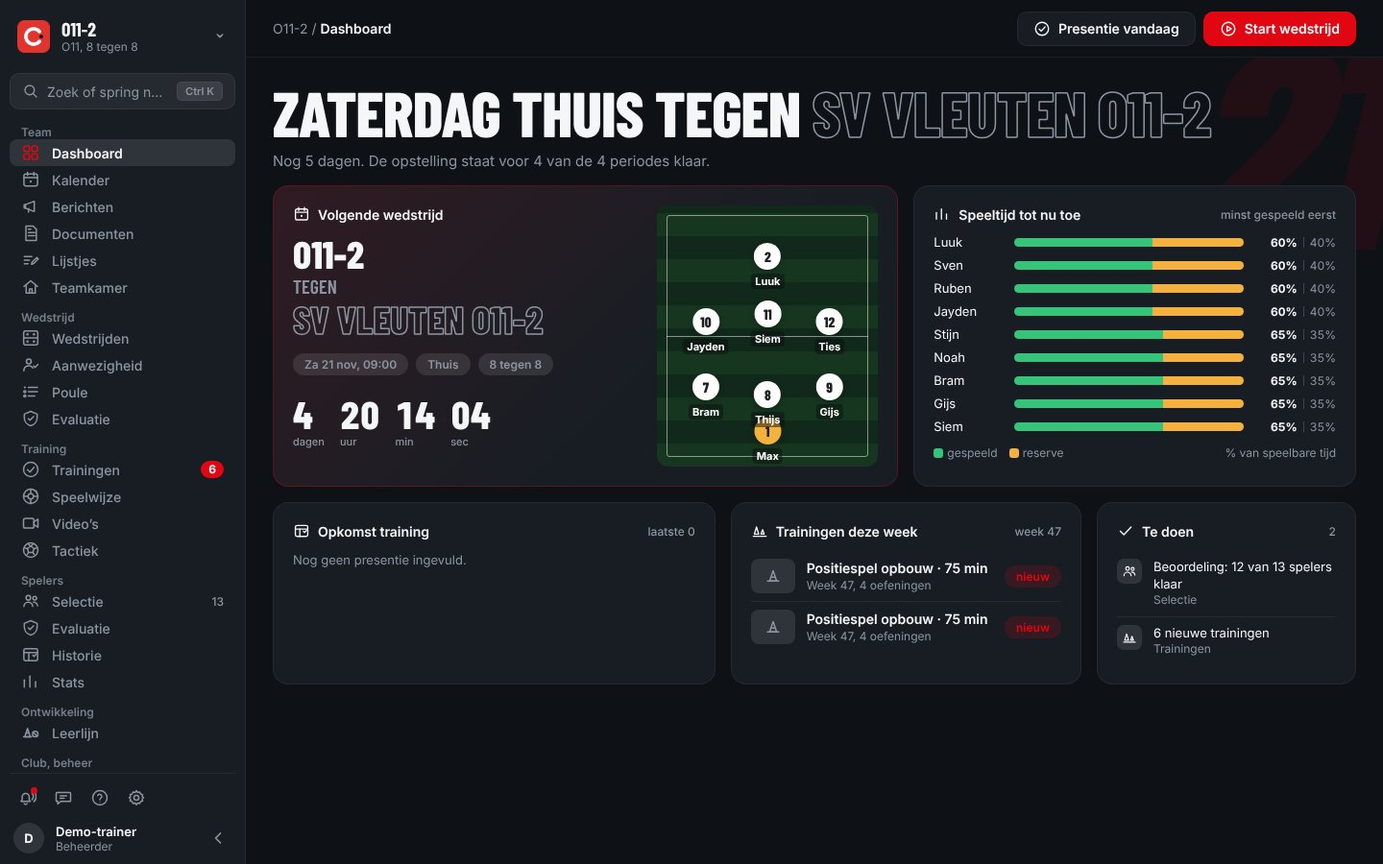
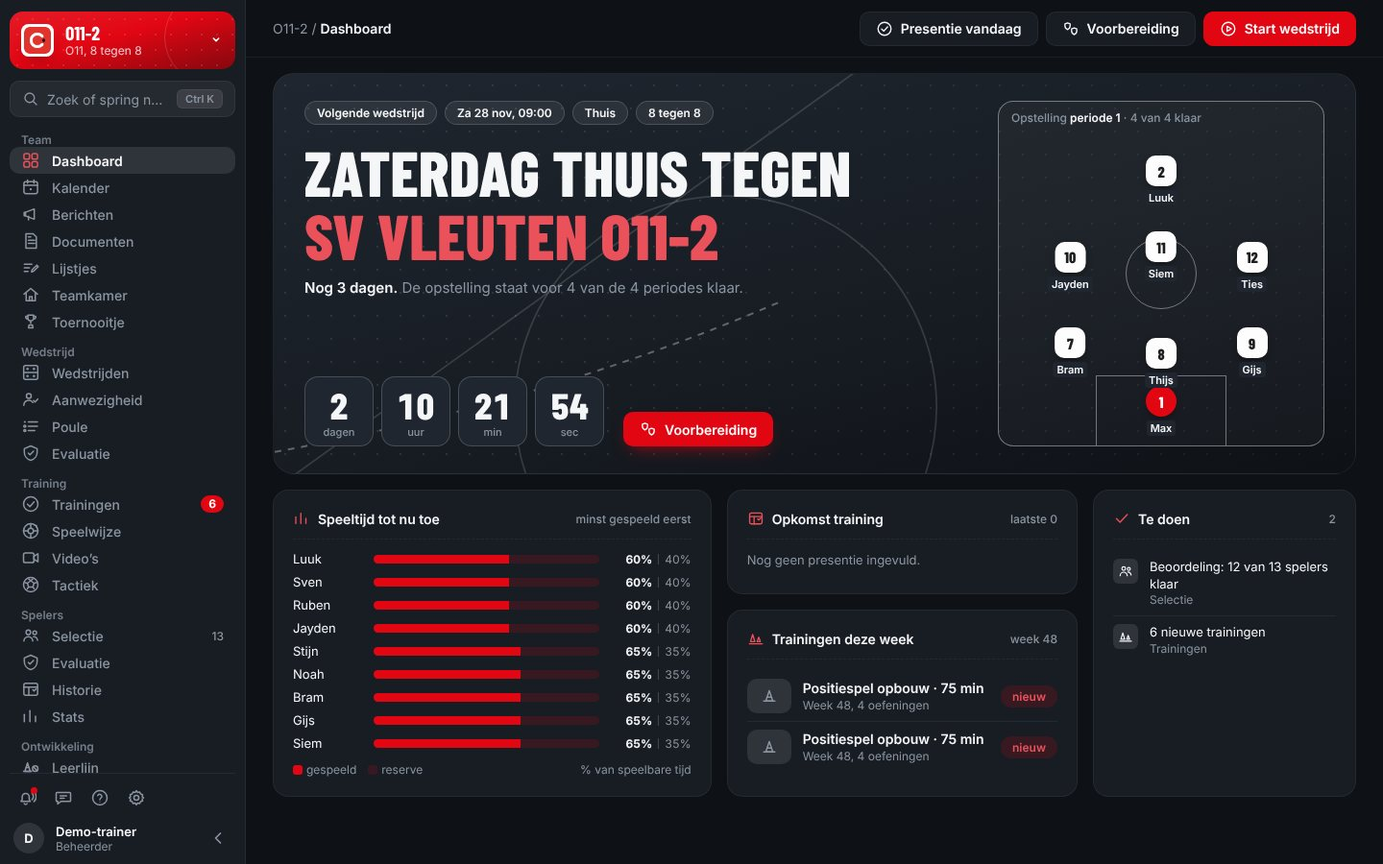
Over-pagina bijgewerkt: hockey, Activiteiten per rol, nieuw dashboard en tv-schermen (20261126o)
- Hockey open met eigen oefenstof (48 vormen), LISA als ledenbron; volleybal en korfbal als pilot
- Nieuw in Cluppie: hockey, tv-schermen als tactisch bord, nieuw laptopdashboard, uitlegvideo bovenaan
- Activiteiten: wie wat ziet (clubbeheer, comité, teams, ouders) en wat zonder account kan
- Correcties tegen de code: veldplanner alleen trainingen en nog concept, vrijwilligersbank met e-mail of telefoon, gedeelde training voor ouder of invaller, video's ook als upload
- Schermafbeelding trainersdashboard (licht en donker) opnieuw gemaakt uit de demo
- llms.txt in lijn gebracht; CACHE_VERSIE 20261126o

Claude-Session: https://claude.ai/code/session_018TW4pJewserW2hgFk6Gxhz

diff --git a/public/over.html b/public/over.html
@@ -5,7 +5,7 @@
 <meta name="viewport" content="width=device-width, initial-scale=1">
 <meta name="theme-color" content="#0e1116">
 <title>Cluppie: app voor jeugdvoetbaltrainers en jeugdopleidingen</title>
-<meta name="description" content="Cluppie is de app voor jeugdvoetbal bij amateurclubs: opstelling en eerlijke speeltijd, ruim 370 oefenvormen in 3D, evaluaties en een seizoensplan in de speelwijze van je club. Early adopters gebruiken Cluppie een half jaar gratis.">
+<meta name="description" content="Cluppie is de app voor jeugdvoetbal en jeugdhockey bij amateurclubs: opstelling en eerlijke speeltijd, oefenvormen in 3D, evaluaties, een seizoensplan in de speelwijze van je club en toernooien, kantine-tv en vrijwilligers. Early adopters een half jaar gratis.">
 <link rel="canonical" href="https://www.cluppie.io/over.html">
 <meta name="robots" content="index, follow, max-image-preview:large, max-snippet:-1">
 <link rel="icon" type="image/svg+xml" href="icons/icon.svg">
@@ -16,14 +16,14 @@
 <meta property="og:locale" content="nl_NL">
 <meta property="og:url" content="https://www.cluppie.io/over.html">
 <meta property="og:title" content="Cluppie: app voor jeugdvoetbaltrainers en jeugdopleidingen">
-<meta property="og:description" content="Cluppie is de app voor jeugdvoetbal bij amateurclubs: opstelling en eerlijke speeltijd, ruim 370 oefenvormen in 3D, evaluaties en een seizoensplan in de speelwijze van je club. Early adopters gebruiken Cluppie een half jaar gratis.">
+<meta property="og:description" content="Cluppie is de app voor jeugdvoetbal en jeugdhockey bij amateurclubs: opstelling en eerlijke speeltijd, oefenvormen in 3D, evaluaties, een seizoensplan in de speelwijze van je club en toernooien, kantine-tv en vrijwilligers. Early adopters een half jaar gratis.">
 <meta property="og:image" content="https://www.cluppie.io/over/og-cluppie.jpg">
 <meta property="og:image:width" content="1200">
 <meta property="og:image:height" content="630">
 <meta property="og:image:alt" content="Cluppie: de jeugdopleiding, digitaal op orde. Het trainersdashboard op de laptop.">
 <meta name="twitter:card" content="summary_large_image">
 <!-- Gestructureerde gegevens voor zoekmachines en AI-assistenten [vindbaarheid] -->
-<script type="application/ld+json">{"@context": "https://schema.org", "@graph": [{"@type": "Organization", "@id": "https://www.cluppie.io/#organisatie", "name": "Cluppie", "url": "https://www.cluppie.io/", "logo": "https://www.cluppie.io/icons/icon-512.png", "email": "paul@cluppie.io"}, {"@type": "WebSite", "@id": "https://www.cluppie.io/#website", "name": "Cluppie", "url": "https://www.cluppie.io/", "inLanguage": "nl-NL", "publisher": {"@id": "https://www.cluppie.io/#organisatie"}}, {"@type": "WebPage", "@id": "https://www.cluppie.io/over.html", "url": "https://www.cluppie.io/over.html", "name": "Cluppie: app voor jeugdvoetbaltrainers en jeugdopleidingen", "description": "Cluppie is de app voor jeugdvoetbal bij amateurclubs: opstelling en eerlijke speeltijd, ruim 370 oefenvormen in 3D, evaluaties en een seizoensplan in de speelwijze van je club. Early adopters gebruiken Cluppie een half jaar gratis.", "inLanguage": "nl-NL", "isPartOf": {"@id": "https://www.cluppie.io/#website"}, "about": {"@id": "https://www.cluppie.io/#app"}, "primaryImageOfPage": "https://www.cluppie.io/over/og-cluppie.jpg"}, {"@type": "SoftwareApplication", "@id": "https://www.cluppie.io/#app", "name": "Cluppie", "url": "https://www.cluppie.io/over.html", "description": "Cluppie is de app voor jeugdvoetbal bij amateurclubs: opstelling en eerlijke speeltijd, ruim 370 oefenvormen in 3D, evaluaties en een seizoensplan in de speelwijze van je club. Early adopters gebruiken Cluppie een half jaar gratis.", "applicationCategory": "SportsApplication", "operatingSystem": "Web (telefoon en laptop), installeerbaar als PWA op Android en iOS", "inLanguage": "nl-NL", "audience": {"@type": "Audience", "audienceType": "Jeugdvoetbaltrainers, jeugdcoördinatoren en technische commissies van amateurvoetbalclubs"}, "featureList": ["Opstelling per kwart of helft met wissels en eerlijke speeltijd", "Teamevaluatie na de wedstrijd met groeicurves", "Spelersbeoordeling op vijf ontwikkeldomeinen", "Training maken uit ruim 370 oefenvormen voor O6 tot en met O19, elk in 3D met het spelverloop in stappen", "Elke training aanpassen aan het aantal spelers en het weer", "Seizoensplan per bouw of voor de hele club", "Speelwijze van de club als rode draad door seizoensplan, training en wedstrijd", "Eigen coachmodel voor de trainer", "Teamkamer voor ouders en spelers met agenda en polls", "Teams en wedstrijden uit Sportlink", "Werkt offline langs de lijn"], "screenshot": ["https://www.cluppie.io/over/app/trainer-dashboard.jpg", "https://www.cluppie.io/over/app/telefoon-wedstrijd.jpg", "https://www.cluppie.io/over/app/telefoon-oefening.jpg"], "publisher": {"@id": "https://www.cluppie.io/#organisatie"}}]}</script>
+<script type="application/ld+json">{"@context": "https://schema.org", "@graph": [{"@type": "Organization", "@id": "https://www.cluppie.io/#organisatie", "name": "Cluppie", "url": "https://www.cluppie.io/", "logo": "https://www.cluppie.io/icons/icon-512.png", "email": "paul@cluppie.io"}, {"@type": "WebSite", "@id": "https://www.cluppie.io/#website", "name": "Cluppie", "url": "https://www.cluppie.io/", "inLanguage": "nl-NL", "publisher": {"@id": "https://www.cluppie.io/#organisatie"}}, {"@type": "WebPage", "@id": "https://www.cluppie.io/over.html", "url": "https://www.cluppie.io/over.html", "name": "Cluppie: app voor jeugdvoetbaltrainers en jeugdopleidingen", "description": "Cluppie is de app voor jeugdvoetbal en jeugdhockey bij amateurclubs: opstelling en eerlijke speeltijd, oefenvormen in 3D, evaluaties, een seizoensplan in de speelwijze van je club en toernooien, kantine-tv en vrijwilligers. Early adopters een half jaar gratis.", "inLanguage": "nl-NL", "isPartOf": {"@id": "https://www.cluppie.io/#website"}, "about": {"@id": "https://www.cluppie.io/#app"}, "primaryImageOfPage": "https://www.cluppie.io/over/og-cluppie.jpg"}, {"@type": "SoftwareApplication", "@id": "https://www.cluppie.io/#app", "name": "Cluppie", "url": "https://www.cluppie.io/over.html", "description": "Cluppie is de app voor jeugdvoetbal en jeugdhockey bij amateurclubs: opstelling en eerlijke speeltijd, oefenvormen in 3D, evaluaties, een seizoensplan in de speelwijze van je club en toernooien, kantine-tv en vrijwilligers. Early adopters een half jaar gratis.", "applicationCategory": "SportsApplication", "operatingSystem": "Web (telefoon en laptop), installeerbaar als PWA op Android en iOS", "inLanguage": "nl-NL", "audience": {"@type": "Audience", "audienceType": "Jeugdtrainers, jeugdcoördinatoren, technische commissies en besturen van amateurvoetbal- en hockeyclubs"}, "featureList": ["Opstelling per kwart of helft met wissels en eerlijke speeltijd", "Teamevaluatie na de wedstrijd met groeicurves", "Spelersbeoordeling op vijf ontwikkeldomeinen", "Training maken uit ruim 370 voetbalvormen en 48 hockeyvormen, elk in 3D met het spelverloop in stappen", "Elke training aanpassen aan het aantal spelers en het weer", "Seizoensplan per bouw of voor de hele club", "Speelwijze van de club als rode draad door seizoensplan, training en wedstrijd", "Eigen coachmodel voor de trainer", "Teamkamer voor ouders en spelers met agenda en polls", "Teams en wedstrijden uit Sportlink", "Toernooiplanner met online inschrijven en een live pagina voor telefoon en tv", "Kantine-tv met het programma van vandaag en sponsoren", "Vrijwilligersbank en vrijwilligersdiensten bij clubactiviteiten", "Werkt offline langs de lijn"], "screenshot": ["https://www.cluppie.io/over/app/trainer-dashboard.jpg", "https://www.cluppie.io/over/app/telefoon-wedstrijd.jpg", "https://www.cluppie.io/over/app/telefoon-oefening.jpg"], "publisher": {"@id": "https://www.cluppie.io/#organisatie"}}]}</script>
 <link rel="preload" href="fonts/barlow-condensed-latin-800-normal.woff2" as="font" type="font/woff2" crossorigin>
 <link rel="preload" href="fonts/inter-latin-400-normal.woff2" as="font" type="font/woff2" crossorigin>
 <link rel="stylesheet" href="fonts/fonts.css">
@@ -58,7 +58,7 @@
         <a href="index.html?aanmelden" class="btn btn--vol cta-login">Meld je club aan</a>
         <a href="index.html" class="btn btn--stil cta-login">Probeer het met je eigen team</a>
       </div>
-      <p class="hero__noot">De app voor jeugdvoetbal: voor trainers, coördinatoren en de technische commissie. Op maat van jouw club, met jullie eigen trainingen. Heb je al een uitnodiging? <a href="index.html" class="cta-login">Inloggen</a>.</p>
+      <p class="hero__noot">De app voor jeugdvoetbal en jeugdhockey: voor trainers, coördinatoren, de technische commissie en het bestuur. Op maat van jouw club, met jullie eigen trainingen. Heb je al een uitnodiging? <a href="index.html" class="cta-login">Inloggen</a>.</p>
     </div>
 
     <figure class="veldkaart" data-slot="hero" data-kind="product" data-alt="Een oefenvorm zoals Cluppie hem tekent, in de app op een telefoon langs het veld">
@@ -100,7 +100,7 @@
         <span class="sport__status">Pilot: meld je club aan</span>
       </a>
     </div>
-    <p class="sporten__noot">Opstelling, speeltijd, teamkamer en rollen werken bij elke sport meteen. De oefenstof en de plannen voor hockey, volleybal en korfbal bouwen we samen met de eerste clubs.</p>
+    <p class="sporten__noot">Opstelling, speeltijd, teamkamer en rollen werken bij elke sport meteen. Hockey heeft eigen oefenstof: 48 vormen in 3D, met leerblokken en een seizoensplan per bouw. Een hockeyclub zet haar teams erin met een lijst uit LISA. De oefenstof en de plannen voor volleybal en korfbal bouwen we samen met de eerste clubs.</p>
     <script>
       /* [20261126f] gekozen open sport gaat mee naar de start van trainer en club (?sport=) */
       document.querySelectorAll('.sport--open[data-sport]').forEach(function (t) {
@@ -141,7 +141,7 @@
         <ul class="kies__lijst">
           <li>De speelwijze van de club komt terug in elke training.</li>
           <li>Kennis over een team blijft als een trainer stopt.</li>
-          <li>Teams en wedstrijden komen rechtstreeks uit Sportlink.</li>
+          <li>Teams en wedstrijden rechtstreeks uit Sportlink, of bij hockey uit een lijst van LISA.</li>
           <li>Rollen voor coach, coördinator en hoofd jeugdopleiding.</li>
         </ul>
         <div class="acties"><a href="index.html?aanmelden" class="btn btn--vol cta-login">Meld je club aan</a><a href="#eerlijk" class="btn btn--stil">Privacy en afspraken</a></div>
@@ -177,13 +177,13 @@
       <article class="ingang reveal">
         <p class="ingang__wie">Met een account en een rol</p>
         <h3>Clubbeheer</h3>
-        <p>Voor coördinatoren, het hoofd jeugdopleiding en het bestuur: teams uit Sportlink, het plan per bouw, de week van elk team, de veldplanner en Activiteiten.</p>
-        <p class="ingang__hoe">De club meldt zich aan en deelt daarna zelf de rollen uit.</p>
+        <p>Voor coördinatoren, het hoofd jeugdopleiding en het bestuur: teams uit Sportlink of LISA, het plan per bouw, de week van elk team, video's, de veldplanner en Activiteiten. Een comité ziet alleen de eigen activiteiten.</p>
+        <p class="ingang__hoe">De club meldt zich aan en deelt daarna zelf de rollen uit. De veldplanner en Activiteiten zetten we per club aan.</p>
       </article>
       <article class="ingang reveal">
         <p class="ingang__wie">Met een code van de trainer</p>
         <h3>De Teamkamer voor ouders en spelers</h3>
-        <p>Agenda, wie erbij is, mededelingen, polls en thuis oefenen. Geen chat en geen beoordelingen.</p>
+        <p>Agenda, wie erbij is, mededelingen, polls, thuis oefenen en de activiteiten van de club. Geen chat en geen beoordelingen.</p>
         <p class="ingang__hoe">De trainer keurt elke ouder goed. De club zet de Teamkamer zelf aan.</p>
       </article>
       <article class="ingang ingang--breed reveal">
@@ -194,12 +194,12 @@
           <div><dt>Toernooi op tv</dt><dd>Dezelfde pagina voor het grote scherm, met het clublogo en de sponsoren.</dd></div>
           <div><dt>Inschrijven voor een toernooi</dt><dd>Een gastclub, school of bedrijf schrijft een team in en ziet of het is toegelaten.</dd></div>
           <div><dt>Kantine-tv</dt><dd>De wedstrijden van vandaag met veld, kleedkamer en uitslag, afgewisseld met sponsoren.</dd></div>
-          <div><dt>Vrijwilligersbank</dt><dd>Alle taken waar de club mensen voor zoekt, met per taak wat je precies doet. Aanmelden met naam en telefoonnummer.</dd></div>
+          <div><dt>Vrijwilligersbank</dt><dd>Alle taken waar de club mensen voor zoekt, met per taak wat je precies doet. Aanmelden met je naam en een e-mailadres of telefoonnummer.</dd></div>
           <div><dt>Diensten bij een activiteit</dt><dd>Bardienst of opbouwen bij het toernooi: kies een tijdvak en zet je naam erbij.</dd></div>
           <div><dt>Trainingshulp</dt><dd>Ouders schrijven zich in als helper bij een training, via een link in de groepsapp.</dd></div>
-          <div><dt>Een training delen</dt><dd>De trainer stuurt een training door aan een collega of invaller, die hem zonder inloggen bekijkt.</dd></div>
+          <div><dt>Een training delen</dt><dd>De trainer stuurt een training naar een ouder die meehelpt of een invaller. Die bekijkt hem zonder inloggen, met wie er is. De link verloopt vanzelf.</dd></div>
         </dl>
-        <p class="ingang__hoe">Op deze pagina's staan nooit beoordelingen of gegevens van spelers. De club zet elke pagina zelf open en weer dicht.</p>
+        <p class="ingang__hoe">Op deze pagina's staan nooit beoordelingen, leerpunten of contactgegevens van spelers. De club of de trainer zet elke pagina zelf open en weer dicht.</p>
       </article>
     </div>
   </div>
@@ -248,7 +248,7 @@
         <h2>Van evaluatie naar een training die past</h2>
         <p class="lead">Cluppie denkt mee over de training van vanavond, niet alleen over wat er vorige week gebeurde.</p>
       </div>
-      <p class="cijfer"><span class="cijfer__getal">ruim 370</span> <span class="cijfer__wat">eigen oefenvormen voor O6 tot en met O19. Elke vorm speelt stap voor stap af in 3D, met coachmomenten, een makkelijkere en een moeilijkere versie.</span></p>
+      <p class="cijfer"><span class="cijfer__getal">ruim 370</span> <span class="cijfer__wat">eigen voetbalvormen voor O6 tot en met O19, en 48 voor hockey. Elke vorm speelt stap voor stap af in 3D, met coachmomenten, een makkelijkere en een moeilijkere versie.</span></p>
     </div>
 
     <div class="wissel" data-wissel>
@@ -300,14 +300,18 @@
     <h2 id="nieuw-kop">Nieuw in Cluppie</h2>
   </div>
   <ul class="rail" tabindex="0" aria-label="Nieuw in Cluppie, schuif opzij voor meer">
+    <li><h3>Hockey voor iedereen</h3><p>Hockeytrainers en hockeyclubs beginnen zelf, met de spelvormen, kaarten en woorden van de KNHB. Met 48 eigen hockeyvormen in 3D, leerblokken en een seizoensplan per bouw. Volleybal en korfbal starten als pilot.</p></li>
+    <li><h3>Tv-schermen als tactisch bord</h3><p>De kantine-tv en de toernooi-tv in de clubkleur, met veldlijnen en een bal die over het bord loopt. Alleen wat verandert schuift in beeld en een nieuwe stand licht even op.</p></li>
+    <li><h3>Een nieuw dashboard op de laptop</h3><p>De volgende wedstrijd op een bord in de clubkleur: aftellen, de opstelling op een getekend veld en de knop Voorbereiding. Daaronder de speeltijd, de opkomst en wat er nog te doen is.</p></li>
+    <li><h3>Uitlegvideo bovenaan</h3><p>De club zet een video bovenaan het startscherm van de teams, tot de coach hem heeft geopend. Bij Video's zie je per video welke trainers hem bekeken.</p></li>
     <li><h3>Online inschrijven voor je toernooi</h3><p>Zet de inschrijving open en deel de link. Gastclubs kiezen een categorie en zien of ze zijn toegelaten. Jij ziet wie betaald heeft en laat een team met één tik toe.</p></li>
-    <li><h3>Kantine-tv</h3><p>De wedstrijden van vandaag op de tv in de kantine, met veld, kleedkamer en uitslag. De pagina werkt zichzelf bij, met het logo en de kleur van de club.</p></li>
+    <li><h3>Kantine-tv</h3><p>De wedstrijden van vandaag op de tv in de kantine, met veld, kleedkamer en uitslag. De pagina werkt zichzelf bij, met het logo en de kleur van de club, sponsoren en eigen schermen.</p></li>
     <li><h3>Sponsoren per seizoen</h3><p>Per sponsor het pakket, het bedrag en tot wanneer de afspraak loopt. Ze draaien mee op de kantine-tv en bij je toernooi, en verdwijnen vanzelf na de einddatum.</p></li>
     <li><h3>Vrijwilligersbank</h3><p>De club geeft aan waar ze mensen voor zoekt. Bij elke taak staat wat je precies doet, wanneer, hoe lang en bij wie je terecht kunt. Aanmelden kan zonder account.</p></li>
     <li><h3>School- en bedrijventoernooien</h3><p>Dezelfde toernooiplanner, met klassen of bedrijven in plaats van verenigingen. Met een kant-en-klaar draaiboek erbij.</p></li>
     <li><h3>Toernooiplanner met live pagina</h3><p>Poules, speelschema over meerdere velden, kleedkamers en finales. Uitslagen invoeren op je telefoon; bezoekers volgen het live, ook op tv.</p></li>
     <li><h3>Activiteiten met een draaiboek</h3><p>Een toernooi, kamp of clubdag organiseren: de taken planen terug vanaf de datum, vrijwilligers kiezen zelf een dienst en op de dag zelf loopt het programma live mee.</p></li>
-    <li><h3>Veldplanner</h3><p>Trainingen en wedstrijden verdelen over velden en kleedkamers, door te slepen. Dubbele boekingen zie je meteen.</p></li>
+    <li><h3>Veldplanner</h3><p>De trainingen van alle teams verdelen over velden, tijden en kleedkamers, door te slepen. Botsingen, een veld zonder licht of een dubbele kleedkamer zie je meteen. Voor nu een concept voor het clubbeheer.</p></li>
     <li><h3>Training als tijdlijn</h3><p>Per onderdeel de tijd, de groepen, de veldmaat en hoe zwaar het is. Met Uitzetten zie je alle vakken in één plaatje op het veld, met Start training wat nu aan de beurt is.</p></li>
     <li><h3>Zie waar je speelt</h3><p>Tik bij een wedstrijd op het veld en je ziet een luchtfoto van het sportpark, met jullie veld en de kleedkamer gemarkeerd. De club tekent het sportpark één keer in.</p></li>
     <li><h3>Evalueren: het doel eerst</h3><p>Na de wedstrijd kijk je eerst of het wedstrijddoel terugkwam. Daarna kies je per onderdeel de zin die past bij wat je zag. De Blokspiegel volgt per week hoe het blokdoel erin komt.</p></li>
@@ -316,7 +320,7 @@
     <li><h3>Wie doet wat in de club</h3><p>Onder Mensen staat per rol wie hem heeft, wat die rol ziet en doet en of hij nog open is.</p></li>
     <li><h3>Bewaartermijnen</h3><p>De club kiest hoe lang gegevens van vertrokken spelers en oude seizoenen blijven staan. Cluppie wist nooit iets vanzelf.</p></li>
     <li><h3>De speelwijze als rode draad</h3><p>Hoe jullie willen voetballen, in de vier momenten van het spel. Het principe van de week staat in het seizoensplan, boven de training en in de vraag na de wedstrijd. Je antwoord stuurt het plan bij.</p></li>
-    <li><h3>Elke oefening in 3D</h3><p>Alle oefeningen, ruim 370, spelen stap voor stap af op een veld in 3D. Je ziet ook wat de tegenstander doet, hoe de aanval eindigt en wat er daarna gebeurt.</p></li>
+    <li><h3>Elke oefening in 3D</h3><p>Alle oefeningen, ruim 370 voor voetbal en 48 voor hockey, spelen stap voor stap af op een veld in 3D. Je ziet ook wat de tegenstander doet, hoe de aanval eindigt en wat er daarna gebeurt.</p></li>
     <li><h3>Vandaag: twee spelers minder, of regen</h3><p>Kies boven de training hoeveel spelers er zijn en wat voor weer het is. Groepen, veldmaat, materiaal en tijden schuiven mee. Het plan zelf blijft staan, en met één tik ben je terug.</p></li>
     <li><h3>Houvast langs de lijn</h3><p>Bij elke oefening staat hoe je ziet dat het lukt, wat je verandert als het niet loopt, één ding om te tellen en een manier om de spelers zelf te laten kiezen.</p></li>
     <li><h3>Teamkamer voor ouders en spelers</h3><p>Ouders en spelers zien de agenda, wie erbij is en je mededelingen. Geen beoordelingen, geen chat. De trainer keurt elke ouder goed. Staat standaard uit: we zetten hem per club aan.</p></li>
@@ -568,9 +572,9 @@
           <div><dt>Trainer</dt><dd>Het dagelijkse gereedschap: opstelling, wissels, evaluatie en trainingen.</dd></div>
           <div><dt>Coördinator</dt><dd>Overzicht over meerdere teams: waar is aandacht of ondersteuning nodig.</dd></div>
           <div><dt>TC en bestuur</dt><dd>Zicht op hoe de opleidingslijn in de praktijk landt, seizoen na seizoen.</dd></div>
-          <div><dt>Commissies en vrijwilligers</dt><dd>Een toernooi of clubdag organiseren met een draaiboek, de kantine-tv vullen en vrijwilligers vinden met een duidelijke taak.</dd></div>
+          <div><dt>Comités en vrijwilligers</dt><dd>Een toernooi of clubdag organiseren met een draaiboek, de kantine-tv vullen en vrijwilligers vinden met een duidelijke taak. Een comitélid ziet alleen de activiteiten waar het bij hoort.</dd></div>
           <div><dt>Bezoekers, gastclubs en scholen</dt><dd>Zonder account: een team inschrijven, het toernooi live volgen of je aanmelden als vrijwilliger.</dd></div>
-          <div><dt>Spelers en ouders</dt><dd>Eerlijkere speeltijd en trainingen die passen. In de Teamkamer zien ze de agenda, wie erbij is en de polls, als de club dat aanzet.</dd></div>
+          <div><dt>Spelers en ouders</dt><dd>Eerlijkere speeltijd en trainingen die passen. In de Teamkamer zien ze de agenda, wie erbij is, de polls en de activiteiten van de club, als de club dat aanzet.</dd></div>
         </dl>
       </div>
 
@@ -579,14 +583,14 @@
           <li>Opstelling maken door spelers te slepen of te tikken, per kwart of helft</li>
           <li>Wissels automatisch gelogd met tijdstip zodra de klok loopt</li>
           <li>Speeltijd-stippen per periode, zodat direct zichtbaar is wie aan de beurt is</li>
-          <li>Klok en aantal periodes automatisch ingesteld op de KNVB-categorie</li>
+          <li>Klok en aantal periodes automatisch ingesteld op de categorie van je bond (KNVB of KNHB)</li>
           <li>Doelpunten en kaarten registreren, corrigeren en terugzien in het log</li>
           <li>Aanvoerder aanwijzen per wedstrijd, met overzicht van rotatie</li>
           <li>Toernooimodus met doorlopende wissels en speeltijd over meerdere wedstrijden</li>
           <li>Vorige confrontatie: uitslag en notities tegen dezelfde tegenstander direct terugzien</li>
           <li>Wedstrijdvoorbereiding: de tegenstander uit Sportlink, het weer, de route en het veld op een luchtfoto</li>
           <li>Toernooitje: onderling toernooi met eigen spelers en gastspelers, één klok voor alle veldjes</li>
-          <li>Format en formatie aanpassen (4×4 t/m 11×11) via “Wijzig opzet”</li>
+          <li>Format en formatie aanpassen via “Wijzig opzet”, van 3 tegen 3 bij hockey tot 11 tegen 11</li>
         </ul>
       </div>
 
@@ -605,7 +609,7 @@
 
       <div class="paneel" role="tabpanel" id="ap5" aria-labelledby="at5" hidden>
         <ul class="lijst">
-          <li>Training maken uit een bibliotheek van ruim 370 vormen, elk in 3D met het spelverloop in stappen</li>
+          <li>Training maken uit een bibliotheek van ruim 370 voetbalvormen of 48 hockeyvormen, elk in 3D met het spelverloop in stappen</li>
           <li>Per oefening zeven vaste velden: doel, tijd, benodigdheden, uitleg, differentiatie, coachmomenten en spelvormen</li>
           <li>Vandaag: elke training aanpassen aan het aantal spelers en het weer, met één tik terug naar het plan</li>
           <li>Training maken houdt rekening met je materiaal, een half veld en het weer</li>
@@ -615,7 +619,7 @@
           <li>Training als tijdlijn, met Uitzetten (alle vakken op het veld) en Start training</li>
           <li>Je eigen coachmodel opbouwen, alleen voor jou zichtbaar</li>
           <li>Trainingen delen als PDF per team, met melding bij iets nieuws</li>
-          <li>Video’s delen via YouTube-links, per team en in eigen categorieën van de club</li>
+          <li>Video’s delen als YouTube-link of eigen upload, per team en in eigen categorieën van de club</li>
           <li>Seizoenskalender per maand, met filters op wedstrijden, speeldagen en beker</li>
           <li>Automatische synchronisatie van officiële wedstrijden vanuit de KNVB-kalender</li>
           <li>Zelf toernooien, vriendschappelijke wedstrijden of vrije dagen toevoegen</li>
@@ -625,7 +629,7 @@
       <div class="paneel" role="tabpanel" id="ap6" aria-labelledby="at6" hidden>
         <ul class="lijst">
           <li>PDF-import van teamindelingen: teams en spelers automatisch uitgelezen</li>
-          <li>Alle teams in een keer klaarzetten uit Sportlink, in de juiste bouw</li>
+          <li>Alle teams in een keer klaarzetten uit Sportlink, in de juiste bouw; zonder Sportlink (hockey) plak je de teams uit LISA</li>
           <li>Coaches uitnodigen en beheren per team, met persoonlijke links</li>
           <li>Werkwijze kiezen: de club stuurt de trainingen, of trainers maken ze zelf</li>
           <li>Coördinatoren zien per week wat elk team traint en of er getraind is</li>
@@ -637,21 +641,24 @@
           <li>Seizoensbeheer en club-breed afgelasten van speeldagen</li>
           <li>Mensen: per rol wie hem heeft, wat die rol ziet en doet en of hij nog open is</li>
           <li>Sportparken intekenen, zodat elke coach ziet op welk veld hij speelt</li>
-          <li>Veldplanner: trainingen en wedstrijden over velden en kleedkamers verdelen door te slepen</li>
+          <li>Veldplanner: de trainingen over velden, tijden en kleedkamers verdelen door te slepen, met controles op botsingen (nog als concept, per club aan te zetten)</li>
+          <li>Een uitlegvideo bovenaan het startscherm van de teams zetten en per video zien welke trainers hem openden</li>
           <li>Bewaartermijnen: zelf kiezen hoe lang gegevens blijven staan, en opruimen met één controle vooraf</li>
         </ul>
       </div>
 
       <div class="paneel" role="tabpanel" id="ap11" aria-labelledby="at11" hidden>
-        <p class="paneel__intro">Activiteiten staat standaard uit. We zetten het per club aan. Alles hieronder werkt voor bezoekers zonder account, met een link of QR-code.</p>
+        <p class="paneel__intro">Activiteiten staat standaard uit. We zetten het per club aan. Het clubbeheer en het comité werken in de app. Inschrijven, live meekijken, de tv en je aanmelden als vrijwilliger gaan zonder account, met een link of QR-code.</p>
         <ul class="lijst">
           <li>Draaiboeken voor toernooi, schooltoernooi, bedrijventoernooi, kamp en clubdag: de taken planen terug vanaf de datum</li>
           <li>Comité met eigen taken, een dagprogramma dat live meeloopt en een plan B bij slecht weer</li>
+          <li>De clubbeheerder kiest het comité; een comitélid ziet en bewerkt alleen de eigen activiteiten. Ook iemand zonder account kan in het comité, met een takenlijst via WhatsApp</li>
+          <li>Deelnemende teams zien de activiteit in hun planning, ouders in de agenda van de Teamkamer als het comité dat aanzet</li>
           <li>Vrijwilligersdiensten bij een activiteit: mensen kiezen zelf een tijdvak via een open link</li>
           <li>Toernooiplanner: poules, speelschema over meerdere velden, kleedkamers, finales en de eindstand</li>
           <li>Online inschrijven per categorie, met een maximum, wachtlijst, inschrijfgeld en een betaallink van de club</li>
           <li>Verenigingen, scholen of bedrijven als deelnemer, met de lijst als CSV in en uit</li>
-          <li>Live pagina voor telefoon en tv: schema, standen, uitslagen en mededelingen, met het clublogo</li>
+          <li>Live pagina voor telefoon en tv: schema, standen, uitslagen en mededelingen, met het clublogo. Op tv als tactisch bord in de clubkleur</li>
           <li>Sponsoren en eigen schermen bij het toernooi, over te nemen uit de sponsoren van de club</li>
           <li>Kantine-tv: de wedstrijden van vandaag met veld, kleedkamer en uitslag, elke tien minuten bijgewerkt</li>
           <li>Sponsoren per seizoen: pakket, bedrag en einddatum voor het bestuur, het logo op de tv</li>
@@ -673,6 +680,7 @@
           <li>Geen chat, geen beoordelingen, geen leerpunten en geen reden van een afmelding</li>
           <li>Wedstrijden en trainingen in de eigen agenda, en de stand tijdens de wedstrijd als de trainer dat aanzet</li>
           <li>Trainingshulp: ouders schrijven zich in als helper bij een training</li>
+          <li>Activiteiten van de club in de agenda, als het comité dat aanzet</li>
         </ul>
       </div>
 
@@ -719,7 +727,7 @@
       <dl class="rijen">
         <div><dt>Geen betalingen</dt><dd>Contributie, boetes en de teampot regel je ergens anders. Bij een toernooi zet de club zelf een betaallink of rekeningnummer bij de inschrijving en vinkt af wie betaald heeft.</dd></div>
         <div><dt>Geen chat met ouders</dt><dd>Ouders en spelers kunnen meekijken in de Teamkamer: agenda, wie erbij is en polls. Praten en afmelden blijft in de groepsapp.</dd></div>
-        <div><dt>Geen ledenadministratie</dt><dd>Die blijft in Sportlink. Cluppie haalt daar teams en wedstrijden uit.</dd></div>
+        <div><dt>Geen ledenadministratie</dt><dd>Die blijft in Sportlink of LISA. Uit Sportlink haalt Cluppie teams en wedstrijden; uit LISA plak je de teams erin.</dd></div>
       </dl>
     </div>
     <div class="reveal">
@@ -727,7 +735,7 @@
       <p class="lead">Het gaat om gegevens van kinderen. Zo is dat geregeld.</p>
       <dl class="rijen">
         <div><dt>In de EU</dt><dd>De gegevens van je club staan in Europa en zijn afgeschermd van andere clubs.</dd></div>
-        <div><dt>Wie wat ziet</dt><dd>Een coach ziet zijn eigen team. Coördinatoren en het hoofd jeugdopleiding zien wat bij hun rol hoort. Ouders zien alleen de Teamkamer, na goedkeuring door de trainer.</dd></div>
+        <div><dt>Wie wat ziet</dt><dd>Een coach ziet zijn eigen team. Coördinatoren en het hoofd jeugdopleiding zien wat bij hun rol hoort. Een comitélid ziet alleen de eigen activiteiten. Ouders zien alleen de Teamkamer, na goedkeuring door de trainer.</dd></div>
         <div><dt>Afspraken op papier</dt><dd>Je sluit als club een verwerkersovereenkomst met Cluppie. Cluppie ziet zelf geen spelersnamen, tenzij jullie om hulp vragen; dat wordt vastgelegd en je kunt het uitzetten.</dd></div>
       </dl>
       <p class="eerlijk__meer"><a href="privacy.html">Lees de privacyverklaring</a></p>
@@ -745,9 +753,9 @@
       <div class="routes">
         <div class="route reveal">
           <h3>Jeugdcoördinator of bestuurslid</h3>
-          <p>Meld de club aan. Na goedkeuring ben jij clubbeheerder en zet je in ongeveer een kwartier alle teams klaar, rechtstreeks uit Sportlink.</p>
+          <p>Meld de club aan. Na goedkeuring ben jij clubbeheerder en zet je in ongeveer een kwartier alle teams klaar, rechtstreeks uit Sportlink of uit een lijst van LISA.</p>
           <ol class="stappen" id="starten" aria-label="In drie stappen starten">
-            <li><strong>Club aanmelden.</strong> Vul het formulier in en kies hoe jullie jeugdopleiding werkt. Met de Sportlink Client ID van je club vullen we naam, plaats, logo en kleur voor je in.</li>
+            <li><strong>Club aanmelden.</strong> Vul het formulier in, kies je sport en hoe jullie jeugdopleiding werkt. Met de Sportlink Client ID van je club vullen we naam, plaats, logo en kleur voor je in.</li>
             <li><strong>Teams en coaches.</strong> Zet alle teams in een keer klaar en nodig de coaches uit met een persoonlijke link.</li>
             <li><strong>Eerste training.</strong> Maak een training en vul na de eerstvolgende wedstrijd de teamevaluatie in. De rest ontdek je vanzelf.</li>
           </ol>

diff --git a/public/sw.js b/public/sw.js
@@ -18,7 +18,7 @@
    zonder dat de coach alle tabbladen hoeft te sluiten.
    ================================================================ */
 
-const CACHE_VERSIE = 'cluppie-v20261126n';
+const CACHE_VERSIE = 'cluppie-v20261126o';
 
 /* Minimale schil die we bij installatie alvast klaarzetten. De overige
    bestanden (JS-modules, iconen, fonts van gstatic) worden vanzelf
